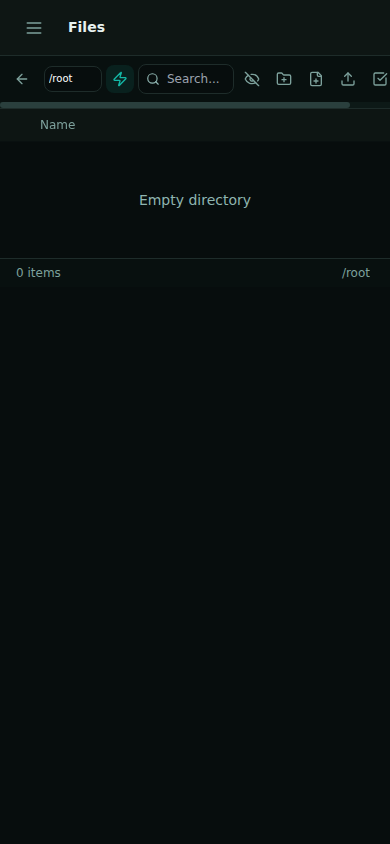
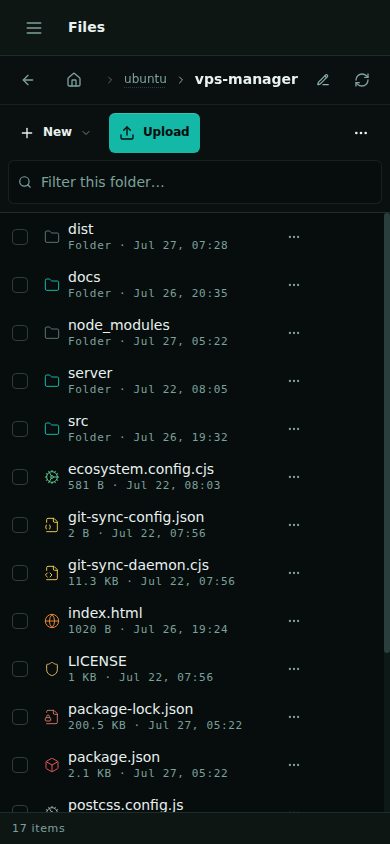
docs: new file manager and editor screenshots

diff --git a/README.md b/README.md
@@ -69,12 +69,35 @@ than a fixed 0–100 range.
 ### File manager
 
 Browse, edit, upload, download, rename, copy and delete. Directory downloads are
-streamed as ZIP archives. The built-in CodeMirror 6 editor handles syntax highlighting
-for in-place edits, and works properly on a phone — native selection handles, no
-fighting the virtual keyboard, plus a key bar for the characters a mobile keyboard
-hides. Images, audio, video and PDFs preview inline.
+streamed as ZIP archives. Every file type gets its own icon and hue — a `.json`
+does not look like a `.js`, and `package.json` does not look like any other JSON
+file — so a directory is scannable at a glance. The address bar works like Windows
+Explorer: click the breadcrumb (or press `Ctrl+L`) to type or paste a path directly.
 
 ![File manager](docs/screenshots/Files.png)
+
+On a phone the same list folds size and modified time into a secondary line, since
+there is no room for columns, and the toolbar collapses to New / Upload with
+everything else behind an overflow sheet.
+
+![File manager on mobile](docs/screenshots/Files-mobile.png)
+
+### Code editor
+
+CodeMirror 6 with on-demand grammars for ~40 languages, find and replace, code
+folding, bracket matching, autocomplete, adjustable font size, word wrap and
+optional auto-save. `Ctrl+S` (or `Cmd+S`) saves; `Ctrl+Enter` also works, because it
+is easier to reach on a phone.
+
+![Code editor](docs/screenshots/Editor.png)
+
+The editor is genuinely usable on mobile, which was the point of moving off Monaco.
+CodeMirror is `contenteditable`-based, so the OS provides native selection handles,
+caret dragging and IME instead of fighting a hidden textarea. The key bar along the
+bottom supplies the characters a phone keyboard hides — tab, braces, brackets,
+pipe, `$`, backtick — plus undo and redo.
+
+![Code editor on mobile](docs/screenshots/Editor-mobile.png)
 
 ### Terminal
 
@@ -110,9 +133,9 @@ when code updates.
 Every section is a first-class mobile view — no horizontal scrolling at 390 px.
 
 <p align="center">
-  <img src="docs/screenshots/Dashboard-mobile.png" width="30%" alt="Dashboard on mobile" />
-  <img src="docs/screenshots/PM2-mobile.png" width="30%" alt="PM2 on mobile" />
   <img src="docs/screenshots/Files-mobile.png" width="30%" alt="Files on mobile" />
+  <img src="docs/screenshots/Editor-mobile.png" width="30%" alt="Code editor on mobile" />
+  <img src="docs/screenshots/Dashboard-mobile.png" width="30%" alt="Dashboard on mobile" />
 </p>
 
 ---
@@ -134,6 +157,11 @@ Every section is a first-class mobile view — no horizontal scrolling at 390 px
 
 - Path-jailed browsing across allow-listed roots
 - List and grid views, sortable by name, size, type or modified time
+- **Per-type file icons** with distinct glyph *and* hue for every language family,
+  plus exact-filename overrides (`package.json`, `Dockerfile`, `.gitignore`, lock files)
+- **Editable address bar** — click the breadcrumb or press `Ctrl+L` to type or paste a path
+- **OpenClaw workspace auto-detection** — scans the allowed roots for `.openclaw`
+  installs and ranks them by content, instead of hard-coding one user's home
 - CodeMirror 6 editing with on-demand grammars for ~40 languages
 - Mobile-first editor: native selection, key bar, adjustable font, word wrap,
   optional auto-save, find and replace
